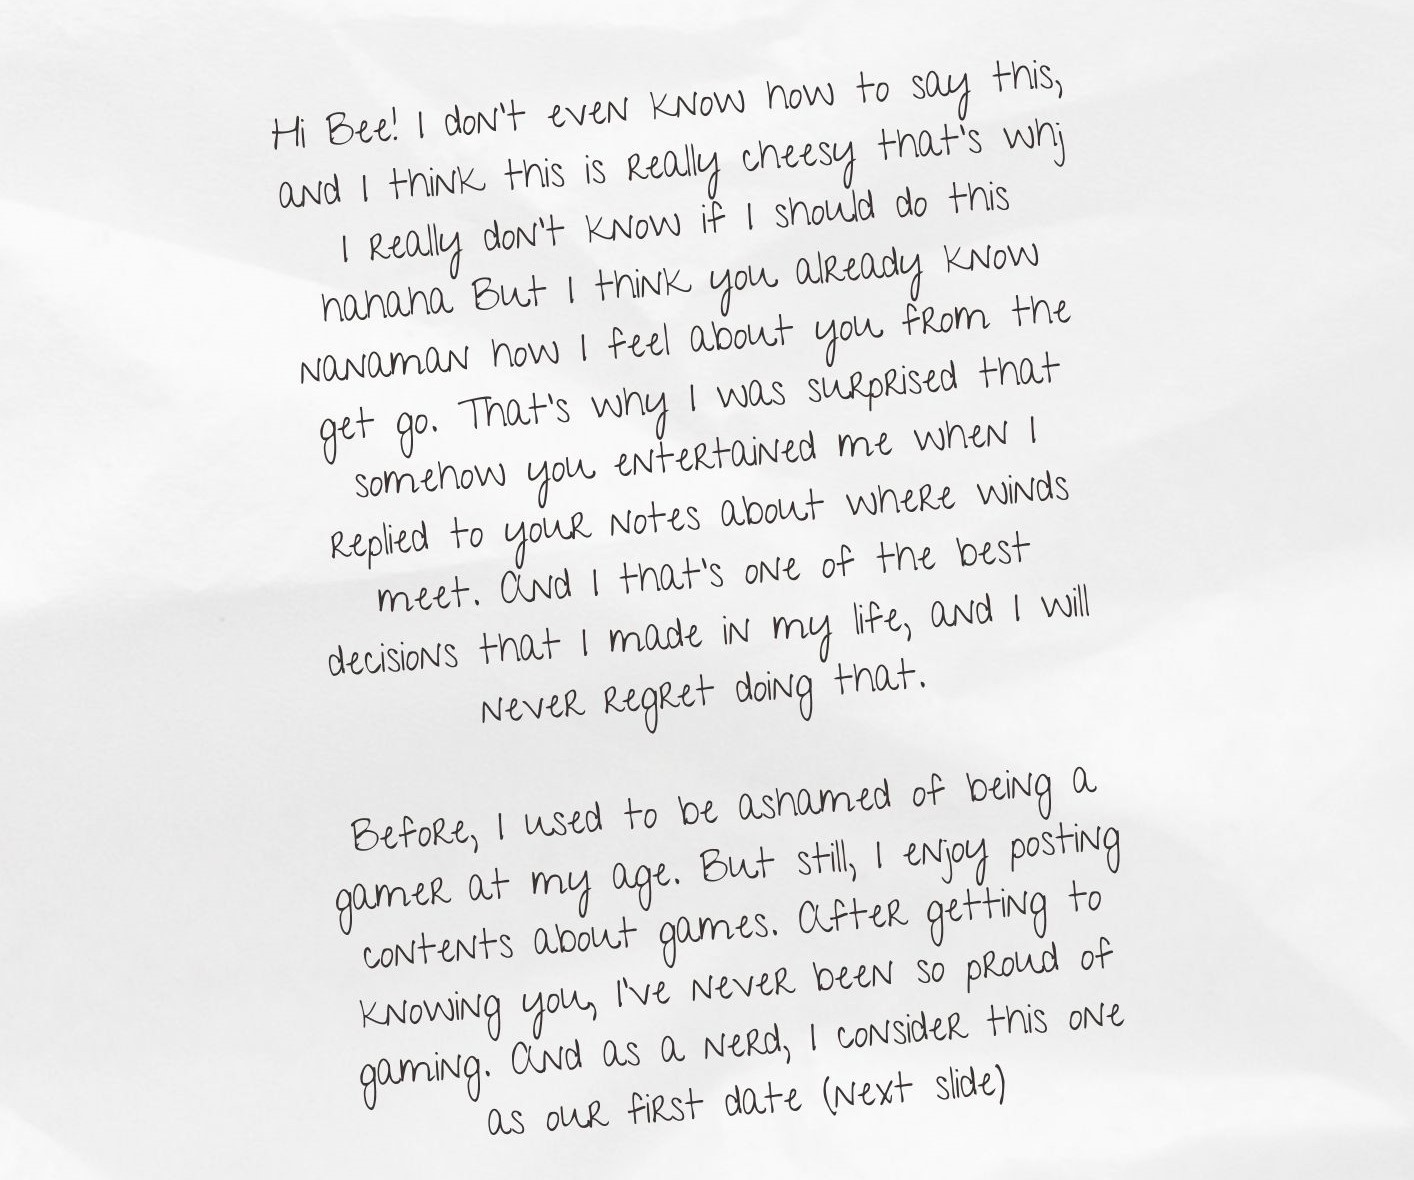
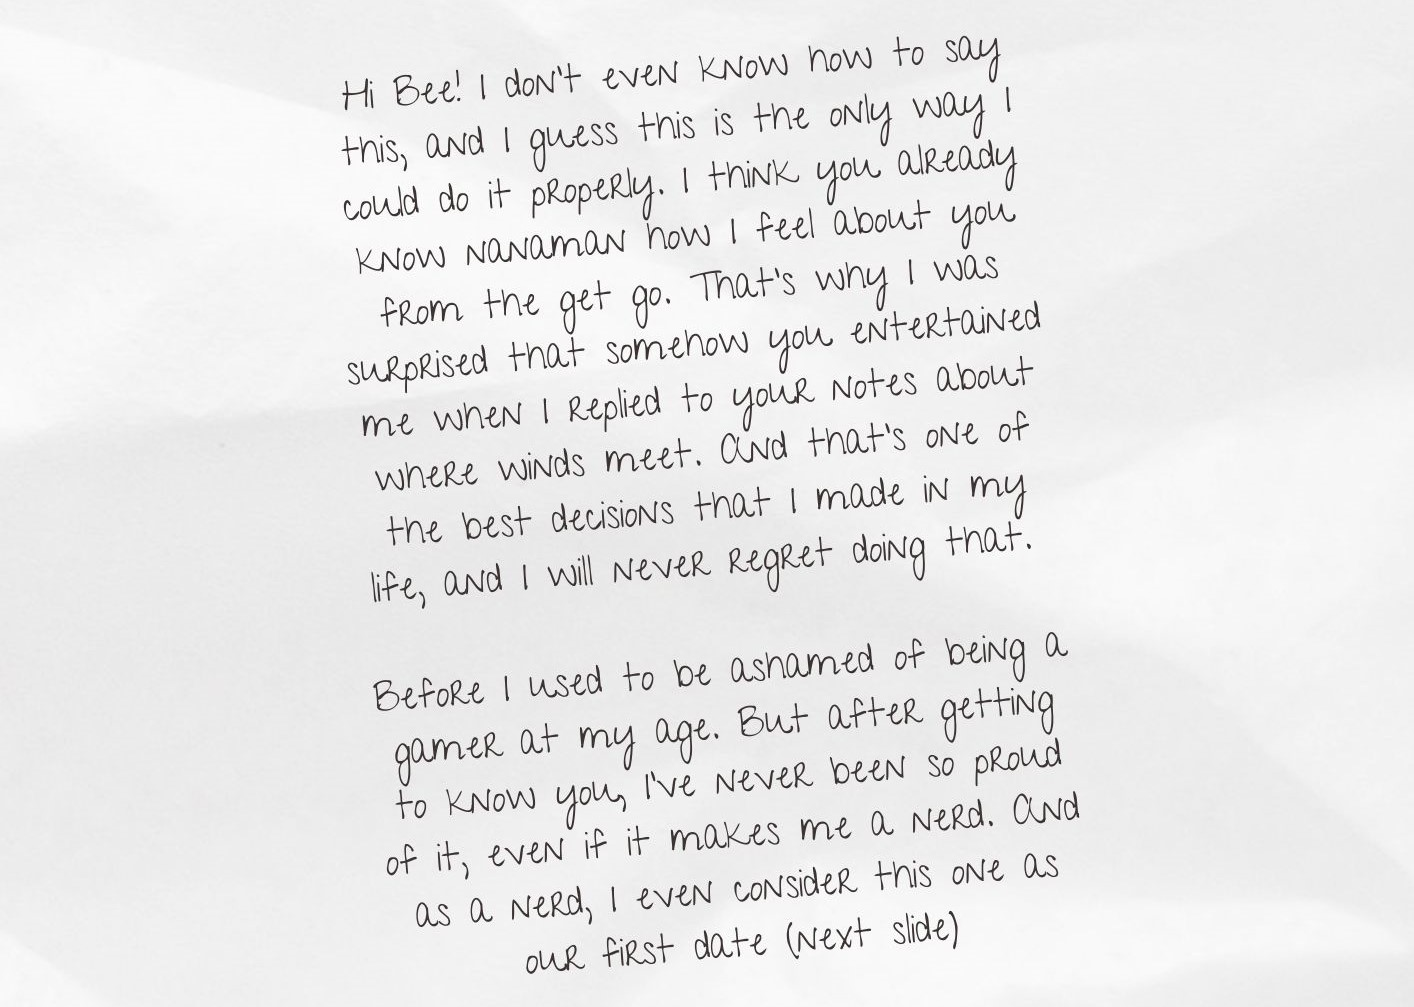
change letter

Changed region(s): [[0.1867, 0.0308, 0.7779, 0.6157], [0.2489, 0.6157, 0.8091, 0.9851]]

diff --git a/index.html b/index.html
@@ -8,7 +8,7 @@
     <link rel="stylesheet" href="styles.css">
 </head> 
 <body>
-    <audio controls autoplay style="display:none">
+    <audio controls autoplay>
         <source src="./images/Ikawatakoparin.mp3" type="audio/mpeg">
     </audio>
   
@@ -28,7 +28,7 @@
 
 		<div id="slide-4" class="slide" style="background-image: url(./images/7348108822592662124.gif);"></div>
 
-        <div id="letter-3" class="slide" style="background-image: url(./images/thirdletter2.png);"></div>
+        <div id="letter-3" class="slide" style="background-image: url(./images/thirdletter.png);"></div>
 
 	</div>
 
@@ -42,11 +42,9 @@
 		<a href="#slide-3"></a>
 		<a href="#slide-4"></a>
         <a href="#letter-3"></a>
-        
 	</div>
 </div>
+<small class="caption">Use the arrow keys or dots to navigate, laptop or desktop then zoom out for at least 75%</small>
 
-<small class="caption">Use the arrow keys or dots to navigate</small>
-    
 </body>
 </html>
